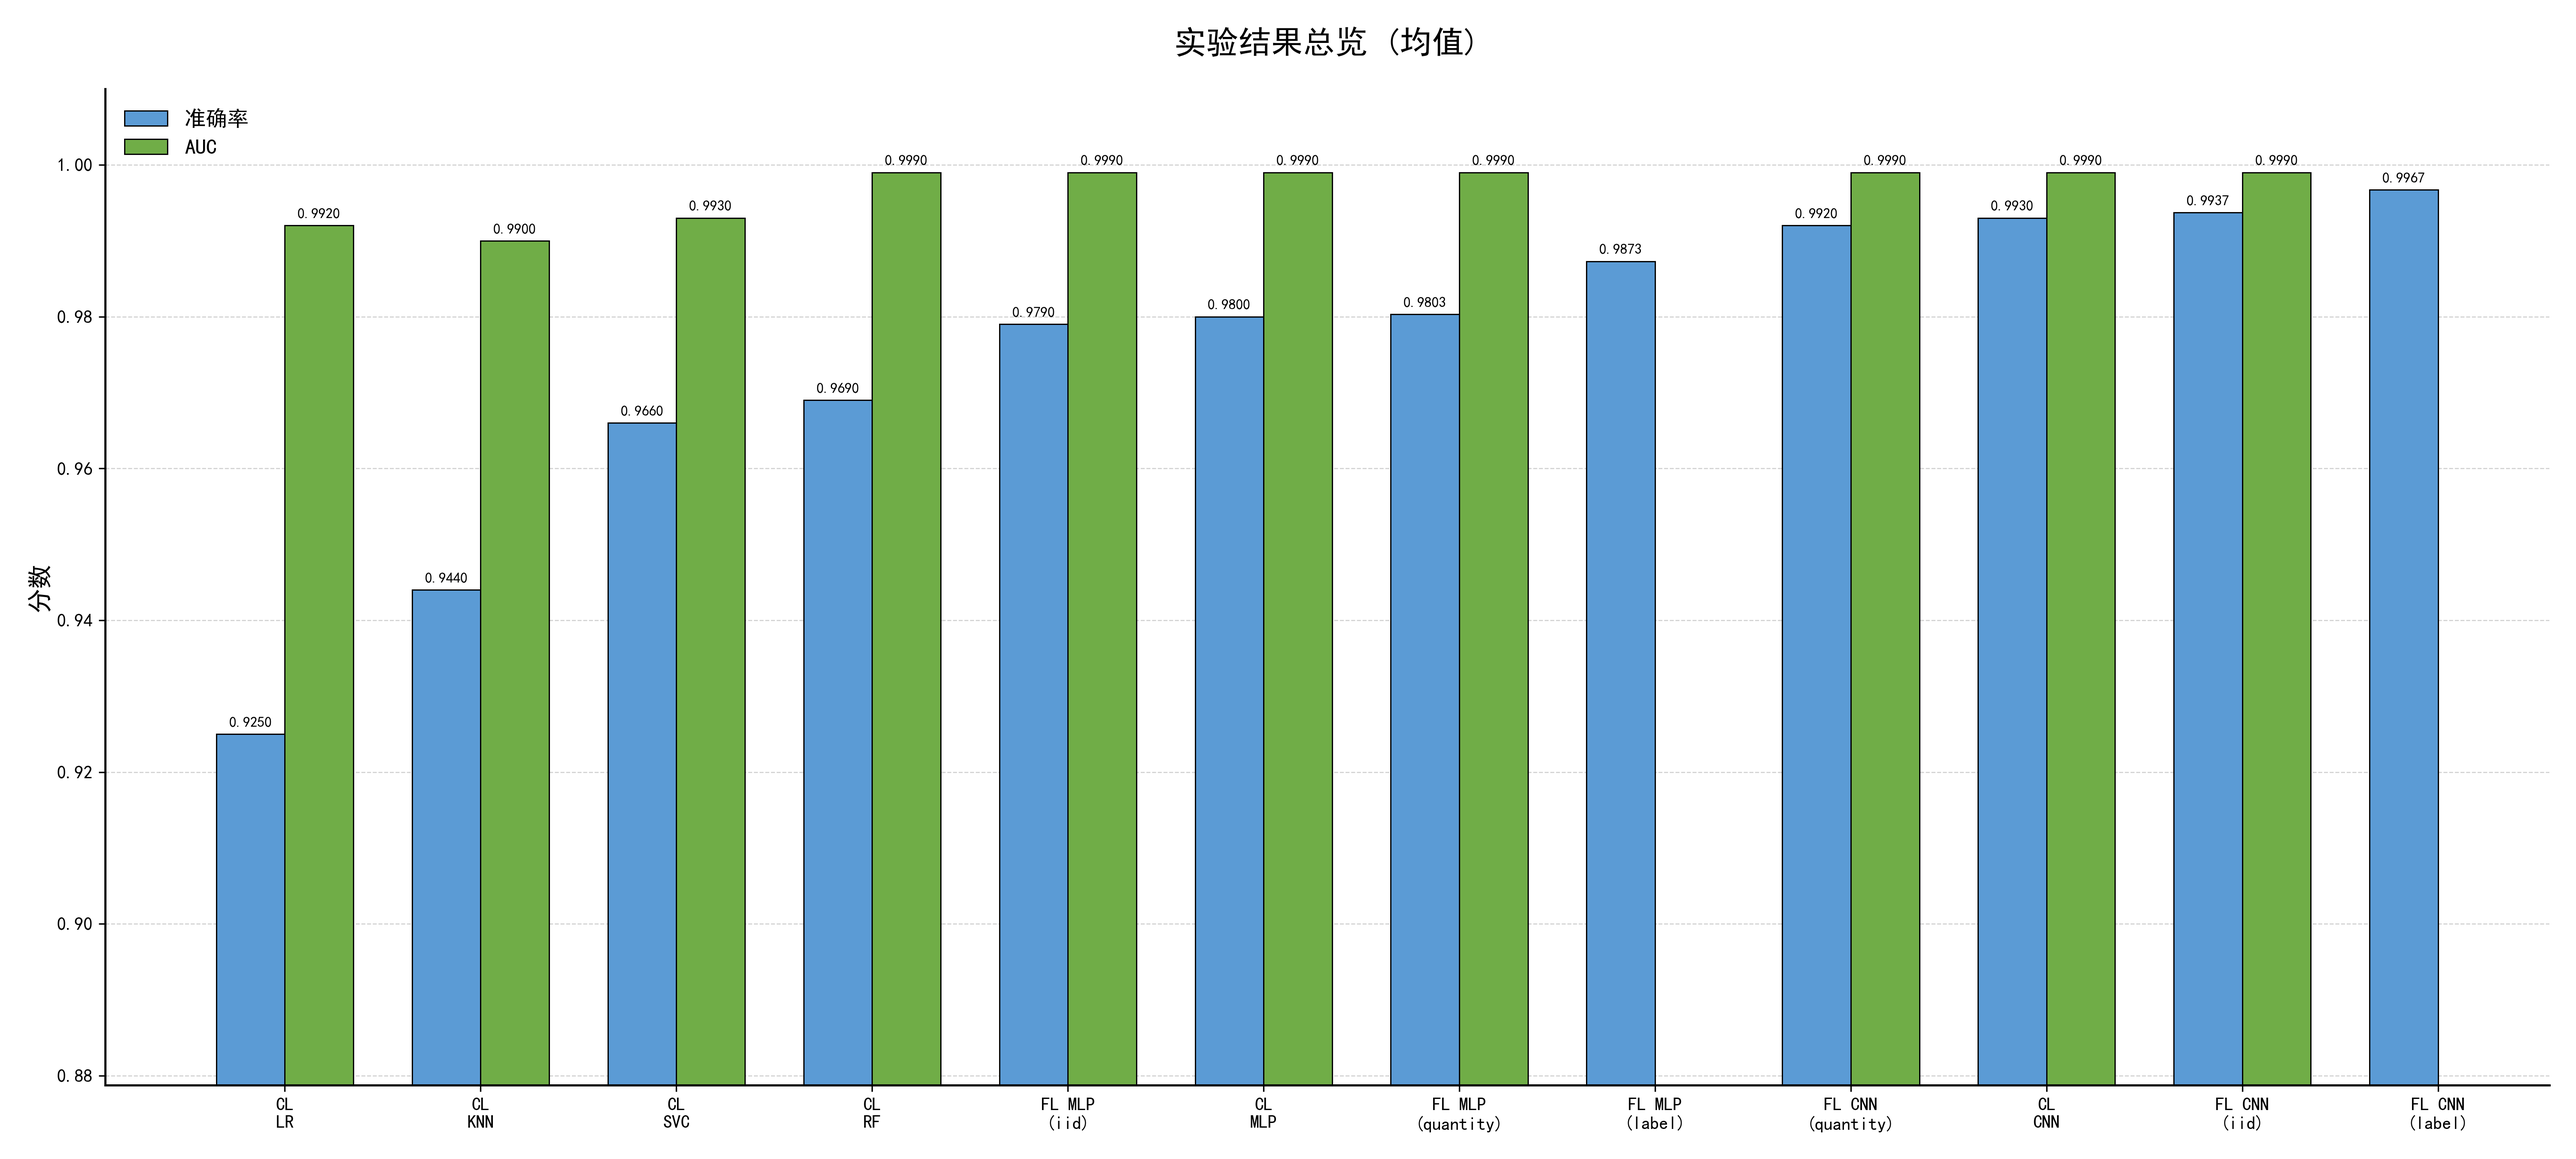
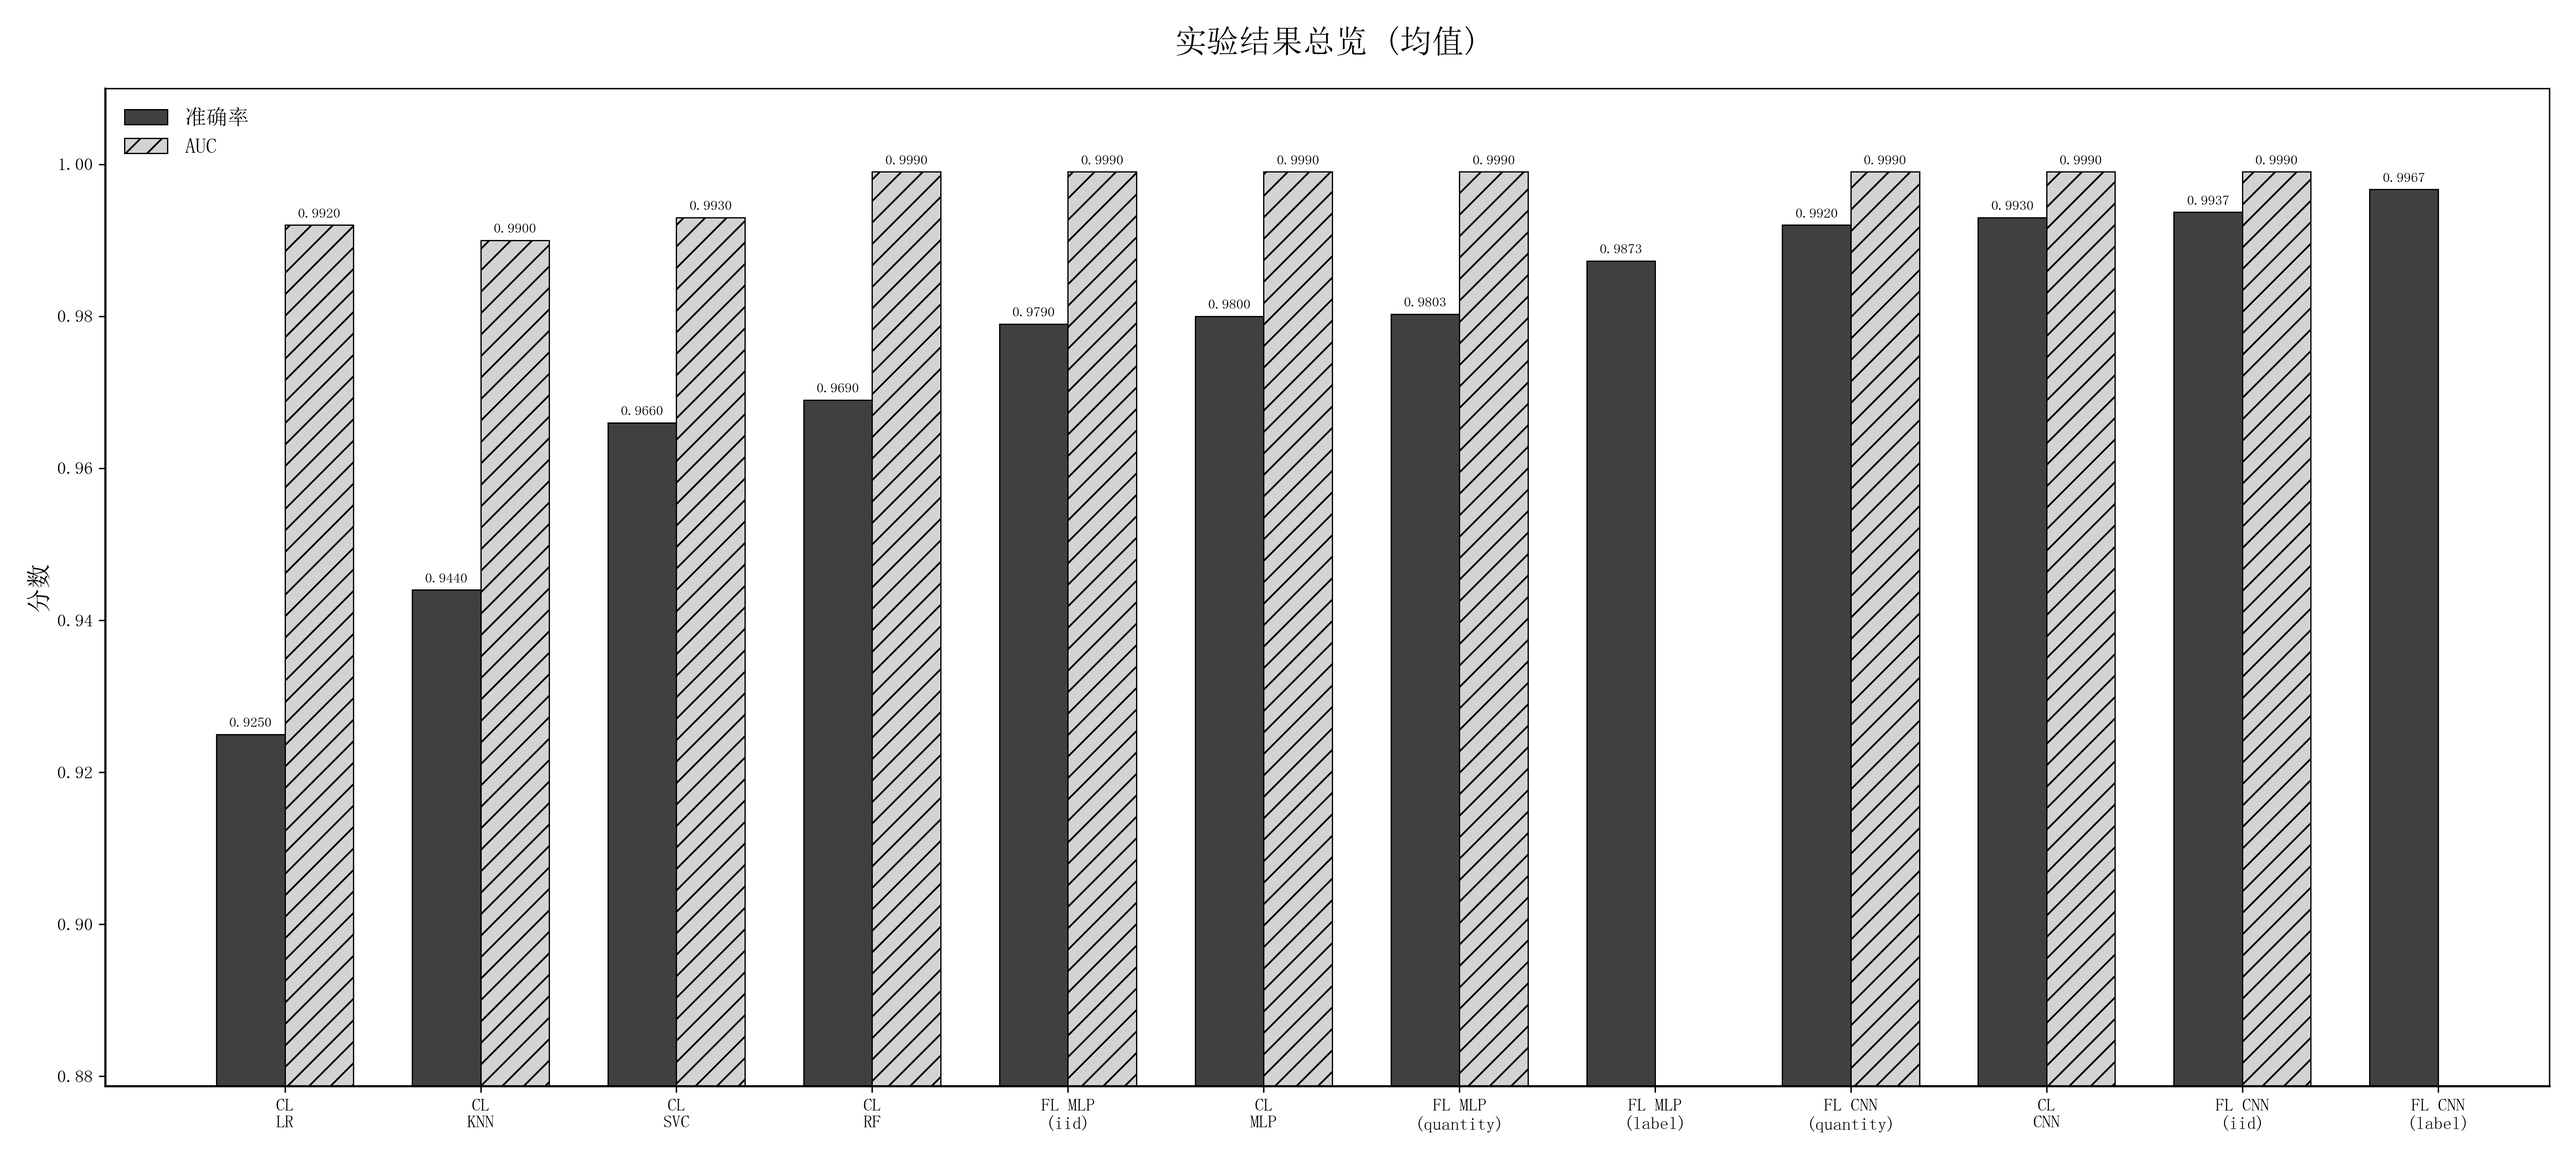
更新了绘图

diff --git a/src/utils/draw.py b/src/utils/draw.py
@@ -9,9 +9,14 @@ import pandas as pd
 
 logger=get_logger()
 
+from matplotlib.font_manager import FontManager
+mpl_fonts = set(f.name for f in FontManager().ttflist)
+print('all font list get from matplotlib.font_manager:')
+for f in sorted(mpl_fonts):
+    print('\t' + f)
 
 # 设置中文字体
-plt.rcParams['font.sans-serif'] = ['SimHei']  # 使用黑体显示中文
+plt.rcParams['font.family'] =  ['SimSun']  # Use Times New Roman for English, fallback to SimSun for Chinese
 plt.rcParams['axes.unicode_minus'] = False    # 正常显示负号
 save_dir = os.path.abspath(os.path.join(os.path.dirname(__file__), '..', '..', 'out'))
 os.makedirs(save_dir, exist_ok=True)
@@ -68,18 +73,18 @@ def plot_experiment_results_bar(save_dir, data=None):
     width = 0.35
 
     fig, ax = plt.subplots(figsize=(20, 9), dpi=300)
-    color1 = '#5B9BD5'
-    color2 = '#70AD47'
+    color1 = '#D3D3D3'  # 浅灰色
+    color2 = '#404040'  # 深灰色
 
     # 绘制准确率柱子
     bars1 = ax.bar(x - width/2, df['准确率_均值'], width, 
-                   label='准确率', color=color1, edgecolor='black', linewidth=0.7)
+                   label='准确率', color=color2, edgecolor='black', linewidth=0.7)
 
     # 仅为有AUC值的行绘制柱子
     auc_df = df.dropna(subset=['AUC_均值'])
     auc_indices = auc_df.index.to_numpy()
-    bars2 = ax.bar(x[auc_indices] + width/2, auc_df['AUC_均值'], width,
-                   label='AUC', color=color2, edgecolor='black', linewidth=0.7)
+    bars2 = ax.bar(x[auc_indices] + width/2, df['AUC_均值'][auc_df.index], width,
+                   label='AUC', color=color1, edgecolor='black', linewidth=0.7, hatch='//')
 
 
     def add_labels(bars):

diff --git a/README.md b/README.md
@@ -1,8 +1,8 @@
-# 基于联邦学习与集中式学习的机器学习模型性能对比框架
+# CFLP 联邦模拟平台
 
 ## 1. 项目概述
 
-本项目是一个用于学术研究和实验的机器学习框架，旨在方便地比较和评估多种机器学习模型在**集中式学习（Centralized Learning）**和**联邦学习（Federated Learning）**两种不同范式下的性能表现。
+本项目是机密联邦学习平台（Confidential Federated Learning Platform, CFLP）的联邦模拟平台部分，一个用于学术研究和实验的机器学习框架，旨在方便地比较和评估多种机器学习模型在**集中式学习（Centralized Learning）**和**联邦学习（Federated Learning）**两种不同范式下的性能表现。
 
 框架通过自动化脚本，能够针对不同的模型和学习范式执行一系列实验，并自动收集、整理和可视化实验结果，如模型的准确率（Accuracy）、AUC值以及训练总耗时，极大地简化了实验流程和结果分析过程。
 
@@ -28,7 +28,8 @@ CFLP_Revision/
 │   └── complete/          # 集中式学习使用的完整数据集
 ├── out/                   # 实验输出目录 (自动生成)
 │   ├── experiment_results.csv  # 实验结果汇总
-│   ├── results.png        # 实验结果可视化图表
+│   ├── experiment_results_bar.png  # 实验结果可视化柱状图
+│   ├── experiment_state.json  # 批量实验断点续跑状态文件
 │   └── *.log              # 每次实验的详细日志
 ├── src/                   # 核心源代码
 │   ├── clients/           # 客户端实现
@@ -75,6 +76,12 @@ python src/data_process/generate_mnist_data.py
 ```
 该脚本会创建 `data/complete`（完整数据）和 `data/clientN`（客户端数据）目录。
 
+> **联邦数据分布可选值**  
+> 通过在 `src/default.yaml` 的 `data.federated_dist` 字段中设置：  
+> • `iid` – 客户端数据独立同分布（默认）  
+> • `noniid_label_skew` – 按标签异质分布  
+> • `noniid_quantity_skew` – 按样本数量异质分布
+
 ### 5.2. 一键运行所有实验
 
 最简单的使用方式是运行根目录下的 `run_all_experiments.py` 脚本。它会自动遍历所有定义的模型和学习模式，执行全部实验，并将结果保存在 `out` 目录下。
@@ -82,7 +89,11 @@ python src/data_process/generate_mnist_data.py
 ```bash
 python run_all_experiments.py
 ```
-实验完成后，您可以在 `out` 目录查下 `experiment_results.csv` 和 `results.png` 文件来分析结果。
+实验完成后，您可以在 `out` 目录查看 `experiment_results.csv` 与 `experiment_results_bar.png` 进行分析；
+若需重新绘制柱状图，可直接执行：
+```bash
+python -m src.utils.draw
+```
 
 ### 5.3. 运行单次指定实验
 
@@ -103,21 +114,96 @@ python run_all_experiments.py
     ```
     该次实验的日志会保存在 `logs` 目录下（运行 `run_all_experiments.py` 时会自动移动到 `out` 目录）。
 
+> **提示**：联邦学习模式目前仅支持深度学习模型 (`CNN`, `MLP`)。若在 `Federated` 模式下选择传统机器学习模型 (`KNN`, `RF`, `SVC`, `LR`)，脚本会自动跳过或报错提示。
+
 ## 6. 配置文件说明
 
-项目的主要配置均在 `src/default.yaml` 中定义，主要参数包括：
+项目的主要配置均在 `src/default.yaml` 中定义，常用字段示例如下：
 
-- `mode`: 实验模式，可选值为 `'Centralized'` 或 `'Federated'`。
-- `seed`: 全局随机种子，用于保证实验可复现。
-- `data`: 数据路径配置。
-- `federated`: 联邦学习相关参数，如客户端数量、每轮抽样的客户端比例等。
-- `model`: 模型配置，包含模型类型 (`type`) 和各个模型的具体超参数。
-- `training`: 训练过程的超参数，如 `batch_size`, `epochs` (用于集中式), `rounds` (用于联邦式) 和 `lr` (学习率)。
+- `mode`：`Centralized` / `Federated`
+- `seed`：随机种子，保证结果可复现
+- `data`：
+  - `complete` / `clients`：数据目录
+  - `federated_dist`：联邦数据分布，可选 `iid` / `noniid_label_skew` / `noniid_quantity_skew`
+- `federated`：
+  - `aggregation`：聚合算法（目前为 `fedavg`）
+  - `num_clients`：客户端总数
+  - `local_epochs`：客户端本地训练轮数
+  - `rounds`：联邦总迭代轮数
+- `model`：模型相关超参数（见文件内各子节点）
+- `training`：
+  - `batch_size`, `learning_rate`, `eval_batch_size`
+  - `epochs`（集中式） / `rounds`（联邦）
+  - `converge_threshold`：提前停止的收敛阈值
 
 ## 7. 实验输出
 
 所有实验的产出都位于 `out` 目录中，方便集中查看：
-- `experiment_results.csv`: 包含了每次实验的模式、模型、最终准确率、AUC和训练耗时。
-- `results.png`: 柱状图，直观展示不同实验组合下的性能对比。
-- `[mode]_[model].log`: 对应实验的完整日志文件，记录了详细的训练过程。
-- `batch.log`: `run_all_experiments.py` 脚本本身的运行日志。
+- `experiment_results.csv`：每次实验的模式、模型、最终准确率、AUC 和训练耗时。
+- `experiment_results_bar.png`：汇总柱状图，直观展示不同实验组合下的性能对比。
+- `experiment_state.json`：批量实验进度记录，可在意外中断后自动续跑。
+- `[mode]_[model][_分布]_run_N.log`：单次实验日志文件（联邦模式包含数据分布与运行序号）。
+- `batch.log`：`run_all_experiments.py` 脚本本身的运行日志。
+
+> **说明**：当测试集类别不完整时，AUC 可能无法计算，CSV 中会显示 `N/A`，日志会标记为 `pass`。
+
+## 8. 预设实验组合
+
+项目默认在 `run_all_experiments.py` 中一键运行 12 组实验，方便横向/纵向全面对比。
+
+| 序号 | 类型 | 模型 | 数据分布 |
+|-----|------|------|-----------|
+| 1 | CL | CNN | 完整数据 |
+| 2 | CL | MLP | 完整数据 |
+| 3 | CL | KNN | 完整数据 |
+| 4 | CL | Random&nbsp;Forest | 完整数据 |
+| 5 | CL | SVC | 完整数据 |
+| 6 | CL | Logistic&nbsp;Regression | 完整数据 |
+| 7 | FL | CNN | iid |
+| 8 | FL | CNN | noniid_label_skew |
+| 9 | FL | CNN | noniid_quantity_skew |
+| 10 | FL | MLP | iid |
+| 11 | FL | MLP | noniid_label_skew |
+| 12 | FL | MLP | noniid_quantity_skew |
+ 
+ > 说明：
+ > * CL = Centralized Learning；FL = Federated Learning（FedAvg 算法）。
+ > * noniid_label_skew：客户端仅包含部分类别；noniid_quantity_skew：客户端样本量不均衡。
+ > * 传统 ML 模型暂不在 FL 中运行，故 FL 仅包含深度模型 (CNN, MLP)。
+
+### 8.1 集中式学习（CL）详解
+
+| 序号 | 实验代号 | 主要参数 | 实验目的 |
+|------|---------|---------|---------|
+| 1 | **CL-CNN** | `FedAvgCNN`, Adam(lr=1e-3), Epochs=100 | 作为深度卷积网络在整数据集上的「上限」基线，后续对比 FL-CNN 准确率损失。 |
+| 2 | **CL-MLP** | MLP(784-128-64-10), ReLU | 比较浅层全连接网络与 CNN 的差距，验证特征抽取能力影响。 |
+| 3 | **CL-KNN** | k=5, uniform | KNN 属于惰性学习，无显式训练过程；用于观察实例-based 方法在高维向量化 MNIST 上的效果及推理耗时。 |
+| 4 | **CL-RF** | n_estimators=100, max_depth=None | 评估基于树的集成方法对图像灰度特征的非线性拟合能力。 |
+| 5 | **CL-SVC** | C=1.0, RBF 核 | 大 margin 分类器，考察其在 60k 样本+10 类任务上的准确率与训练耗时。 |
+| 6 | **CL-LR** | LogisticRegression, lbfgs | 线性模型最低基线，帮助判断数据是否近似线性可分。 |
+
+### 8.2 联邦学习（FL）详解
+
+> 全局参数：客户端数 `num_clients=3`，本地训练轮 `local_epochs=1`，FedAvg 聚合，通信在每轮后进行。
+
+| 序号 | 实验代号 | 数据分布 | 主要关注点 |
+|------|---------|---------|-----------|
+| 7 | **FL-CNN-iid** | iid | 在理想同分布情况下，FL-CNN 与 CL-CNN 的性能差距 → 衡量通信/分布式噪声的影响。 |
+| 8 | **FL-CNN-label** | noniid_label_skew | 每客户端仅含子集类别，考察标签异质性对 FedAvg 收敛速度与最终准确率的影响。 |
+| 9 | **FL-CNN-quantity** | noniid_quantity_skew | 客户端样本量差异大，研究客户端权重不均衡导致的性能波动。 |
+| 10 | **FL-MLP-iid** | iid | 浅层网络在 FL 场景的基线，对比 7 了解网络容量对联邦性能的作用。 |
+| 11 | **FL-MLP-label** | noniid_label_skew | 与 8 相同分布，换用 MLP；探究模型复杂度与标签异质性的交互效应。 |
+| 12 | **FL-MLP-quantity** | noniid_quantity_skew | 与 9 相同分布，换用 MLP；评估数据量失衡对浅层网络的影响。 |
+
+每组实验默认重复 **3 次**（不同随机种子 0/1/2），`run_all_experiments.py` 会统计均值±标准差并绘制柱状图，指标包括：
+
+* **准确率 (Accuracy)**：主要衡量分类正确率。
+* **AUC**：对多类别任务使用 `ovr`/`ovo` 策略，若类别不足则显示 *N/A*。
+* **训练总耗时**：便于分析通信与算法复杂度差异。
+
+通过上述 12 组组合，你可以：
+
+1. 横向比较不同模型之间的效果差异；
+2. 纵向比较同一模型在 CL vs. FL 的性能损失；
+3. 分析 IID 与两种典型 Non-IID (标签偏斜 / 数量失衡) 对联邦训练的影响；
+4. 评估模型复杂度（CNN vs. MLP）在异质分布下的稳健性。
